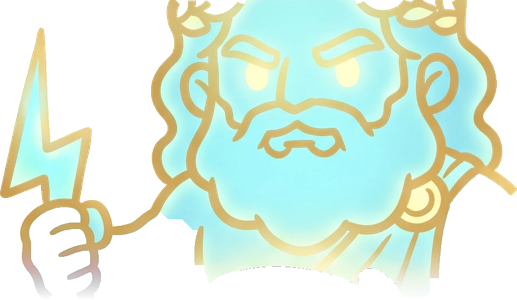
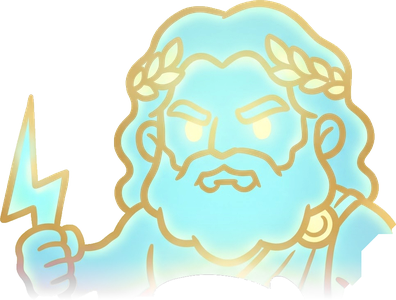
divine: remodel on a 7x3 board, cleaner Zeus spirit, Gemini prompts for the remaining characters
Claude-Session: https://claude.ai/code/session_01TXxUxPecwzvu4yaBN5DPQG

diff --git a/divine.html b/divine.html
@@ -61,14 +61,14 @@ button small { display: block; font-size: .62em; font-weight: 600; }
 </div>
 <script>
 'use strict';
-/* ศึกผู้รับพร (owner 2026-11-25: remodel to the owner's mock-up art/incoming/divine_game/ref/owner_target_mockup.jpg, ONE 6 x 3 board).
+/* ศึกผู้รับพร (owner 2026-11-25: remodel to the owner's mock-up art/incoming/divine_game/ref/owner_target_mockup.jpg; ONE board of 7 x 3 = 21 slots, owner "ทำ 7 ช่อง" so it differs from the reference game).
    Genre: random summon + merge defence (owner's references: genre only, own names / HUD / board). Rules started from the Codex prototype
    on branch codex/divine-dark-compact. Characters = cut from the owner's own pictures (tools/art/divine_cut.py + divine_sprites.py -> art/divine).
    Logical canvas 585 x 1266, drawn at 2x. */
 const $ = id => document.getElementById(id), cv = $('c'), g = cv.getContext('2d'), W = 585, H = 1266, SC = 2;
 cv.width = W * SC; cv.height = H * SC;
 const clamp = (v, a, b) => Math.max(a, Math.min(b, v)), rnd = (a, b) => a + Math.random() * (b - a), pick = a => a[Math.floor(Math.random() * a.length)];
-const COLS = 6, ROWS = 3, CW = 76, CH = 128, BX = Math.round((W - COLS * CW) / 2), BY = 380;
+const COLS = 7, ROWS = 3, CW = 68, CH = 128, BX = Math.round((W - COLS * CW) / 2), BY = 380;
 const cell = i => ({ x: BX + (i % COLS) * CW + CW / 2, y: BY + Math.floor(i / COLS) * CH + CH * .86 });   /* feet point */
 /* monsters walk round the board on the centre line of the dirt ring */
 const PL = 23, PR = W - 23, PT = 339, PB = 805, LOOP = [[PL, PT], [PR, PT], [PR, PB], [PL, PB], [PL, PT]];
@@ -105,14 +105,14 @@ function toast(s) { const e = $('toast'); e.textContent = s; e.classList.add('on
 function unitName(u) { return u.kind === 'sol' ? 'ทหารรับจ้าง' : PAN[u.p].hero[Math.min(3, TIERS.indexOf(u.tier) - 1)]; }
 function makeUnit(tier, p) { if (tier === 'COMMON') return { kind: 'sol', p: null, tier, cd: rnd(0, 30), bob: Math.random() * 6, flash: 0, awake: false }; return { kind: 'hero', p: p || pick(PK), tier, cd: rnd(0, 30), bob: Math.random() * 6, flash: 0, awake: false }; }
 function same(a, b) { return a && b && a.kind === b.kind && a.tier === b.tier && a.p === b.p; }
-function place(u) { const free = []; G.grid.forEach((v, i) => { if (!v) free.push(i); }); if (!free.length) { toast('กระดานเต็ม 18 ช่องแล้ว'); return -1; } const i = free[0]; G.grid[i] = u; const c = cell(i); burst(c.x, c.y - 40, TD[u.tier].col, 18, 4); ring(c.x, c.y - 4, TD[u.tier].col, 10, 44, .4); return i; }
+function place(u) { const free = []; G.grid.forEach((v, i) => { if (!v) free.push(i); }); if (!free.length) { toast('กระดานเต็ม 21 ช่องแล้ว'); return -1; } const i = free[0]; G.grid[i] = u; const c = cell(i); burst(c.x, c.y - 40, TD[u.tier].col, 18, 4); ring(c.x, c.y - 4, TD[u.tier].col, 10, 44, .4); return i; }
 function summon() {
   if (G.over) return; if (G.gold < G.sumCost) return toast('ทองไม่พอ');
   const r = Math.random() + G.atk * .004, t = r > .97 ? 'LEGEND' : r > .84 ? 'EPIC' : r > .55 ? 'RARE' : 'COMMON';
   if (place(makeUnit(t)) < 0) return; G.gold -= G.sumCost; G.sumCost = Math.min(60, G.sumCost + 1); if (t !== 'COMMON' && t !== 'RARE') toast('ได้ระดับ' + TD[t].th + '!'); sync();
 }
 function gamble() {
-  if (G.over) return; if (G.gem < 1) return toast('เพชรไม่พอ'); if (!G.grid.includes(null)) return toast('กระดานเต็ม 18 ช่องแล้ว');
+  if (G.over) return; if (G.gem < 1) return toast('เพชรไม่พอ'); if (!G.grid.includes(null)) return toast('กระดานเต็ม 21 ช่องแล้ว');
   G.gem--; const r = Math.random();
   if (r < .5) { toast('พลาด! ลองใหม่'); sync(); return; }
   const t = r > .97 ? 'MYTHIC' : r > .85 ? 'LEGEND' : 'EPIC'; place(makeUnit(t)); toast('เสี่ยงทายได้ระดับ' + TD[t].th + '!'); sync();
@@ -240,10 +240,10 @@ function hud() {
   txt(G.boss ? 'บอสบุกแล้ว!' : 'บอสใน ' + bw + ' รอบ', cx + 52, cy + 134, 20, '#fff');
 }
 function drawUnit(u, i) {
-  const c = cell(i), D = TD[u.tier], tier = TIERS.indexOf(u.tier), bob = Math.sin(tt * 3 + u.bob) * 1.6, h = (u.kind === 'sol' ? 88 : 100) * D.sz;
-  if (G.sel === i) { g.lineWidth = 5; g.strokeStyle = '#fff06a'; rr(g, c.x - CW / 2 + 3, c.y - CH * .86 + 3, CW - 6, CH - 6, 9); g.stroke(); }
+  const c = cell(i), D = TD[u.tier], tier = TIERS.indexOf(u.tier), bob = Math.sin(tt * 3 + u.bob) * 1.6, h = (u.kind === 'sol' ? 80 : 92) * D.sz;
+  if (G.sel === i) { g.lineWidth = 5; g.strokeStyle = '#fff06a'; rr(g, c.x - CW / 2 + 2, c.y - CH * .86 + 3, CW - 4, CH - 6, 9); g.stroke(); }
   /* tier ring on the floor */
-  g.save(); g.lineWidth = 4; g.strokeStyle = D.col; g.shadowColor = D.col; g.shadowBlur = tier >= 3 ? 14 : 6; g.beginPath(); g.ellipse(c.x, c.y, 30, 9, 0, 0, 6.3); g.stroke(); g.restore();
+  g.save(); g.lineWidth = 4; g.strokeStyle = D.col; g.shadowColor = D.col; g.shadowBlur = tier >= 3 ? 14 : 6; g.beginPath(); g.ellipse(c.x, c.y, 27, 8, 0, 0, 6.3); g.stroke(); g.restore();
   /* the god behind the blessed one: always for a greek mythic, a flash on big hits for greek epic / legend */
   if (u.kind === 'hero' && u.p === 'greek' && (tier >= 4 || u.spirit > 0)) {
     const a = tier >= 4 ? .5 + .1 * Math.sin(tt * 2.2) + (u.spirit > 0 ? .25 : 0) : u.spirit / 26 * .7, sh = tier >= 4 ? 150 : 110, sy = c.y - h * .55 + Math.sin(tt * 1.7) * 3;
@@ -289,7 +289,7 @@ function chips() {
   pill(40, 120, (x, y) => { g.fillStyle = '#ffd23f'; rr(g, x - 12, y - 10, 24, 20, 5); g.fill(); g.lineWidth = 3; g.stroke(); g.fillStyle = '#fff3a0'; g.fillRect(x - 6, y - 6, 8, 4); }, G.gold);
   pill(172, 96, (x, y) => { g.fillStyle = '#5fd2ff'; g.beginPath(); g.moveTo(x, y - 13); g.lineTo(x + 11, y - 2); g.lineTo(x, y + 13); g.lineTo(x - 11, y - 2); g.closePath(); g.fill(); g.lineWidth = 3; g.stroke(); }, G.gem);
   pill(280, 96, (x, y) => { g.fillStyle = '#ff7ad1'; g.beginPath(); g.arc(x, y, 10, 0, 6.3); g.fill(); g.lineWidth = 3; g.stroke(); }, G.core);
-  pill(388, 120, (x, y) => { g.fillStyle = '#e8d6c0'; g.beginPath(); g.arc(x, y - 4, 7, 0, 6.3); g.fill(); g.lineWidth = 3; g.stroke(); g.beginPath(); g.ellipse(x, y + 9, 11, 6, 0, Math.PI, 0); g.fill(); g.stroke(); }, G.grid.filter(Boolean).length + '/18');
+  pill(388, 120, (x, y) => { g.fillStyle = '#e8d6c0'; g.beginPath(); g.arc(x, y - 4, 7, 0, 6.3); g.fill(); g.lineWidth = 3; g.stroke(); g.beginPath(); g.ellipse(x, y + 9, 11, 6, 0, Math.PI, 0); g.fill(); g.stroke(); }, G.grid.filter(Boolean).length + '/21');
 }
 function draw() {
   g.setTransform(SC, 0, 0, SC, 0, 0); g.clearRect(0, 0, W, H);

diff --git a/tools/art/divine_cut.py b/tools/art/divine_cut.py
@@ -11,7 +11,7 @@ BOX = {   # name: (source, x0, y0, x1, y1) in the source's own pixels
     'robot_a': (MOCK, 492, 470, 650, 665), 'robot_b': (MOCK, 708, 512, 858, 705), 'ghoul_a': (MOCK, 892, 488, 1116, 712), 'ghoul_b': (MOCK, 1140, 488, 1366, 722),
     'robot_c': (MOCK, 934, 1958, 1075, 2100),
     'soldier': (MOCK, 1076, 1080, 1232, 1262), 'thor': (MOCK, 676, 1392, 840, 1582), 'monkey': (MOCK, 858, 1558, 1034, 1758), 'anubis': (MOCK, 676, 1692, 840, 1915),
-    'zeus_boy': (TONE, 420, 760, 1400, 1960), 'zeus_spirit': (TONE, 470, 330, 1460, 880),
+    'zeus_boy': (TONE, 420, 760, 1400, 1960), 'zeus_spirit': (TONE, 470, 150, 1460, 880),
 }
 def cut(name, src, x0, y0, x1, y1):
     im = cv2.imread(os.path.join(REF, src)); H, W = im.shape[:2]; pad = 14
@@ -29,7 +29,7 @@ def cut(name, src, x0, y0, x1, y1):
     rgba = cv2.cvtColor(sub, cv2.COLOR_BGR2RGBA); rgba[..., 3] = m * 255
     if name == 'zeus_spirit':   # drawn on white: soft alpha from the distance to white, colour un-blended from white
         c = sub[..., ::-1].astype(float); dist = np.abs(c - 255).max(2); al = np.clip(dist / (110 if name == 'zeus_spirit' else 70), 0, 1)
-        if name == 'zeus_spirit': al = np.maximum(al, .38 * (m > 0)); al *= np.clip((sub.shape[0] - np.arange(sub.shape[0])[:, None] - pad) / (sub.shape[0] * .3), 0, 1)   # fades out at the bottom
+        if name == 'zeus_spirit': al = al * 1.0; al *= np.clip((sub.shape[0] - np.arange(sub.shape[0])[:, None] - pad) / (sub.shape[0] * .3), 0, 1)   # fades out at the bottom
         al = al * (m > 0); q = np.maximum(al, 1e-3)[..., None]; col = np.clip((c - (1 - q) * 255) / q, 0, 255)
         rgba = np.dstack([col, al * 255]).astype(np.uint8)
     a = Image.fromarray(rgba); a = a.crop(a.getbbox()); a.save(os.path.join(OUT, name + '.png')); return a

diff --git a/art/incoming/divine_game/PROMPTS_gemini.md b/art/incoming/divine_game/PROMPTS_gemini.md
@@ -1,0 +1,61 @@
+# ศึกผู้รับพร: คำสั่งสร้างตัวละครให้ Gemini (ฟรี)
+
+วิธีใช้: เปิด Gemini แนบรูปตามที่บอกในแต่ละข้อ แล้ววางคำสั่งภาษาอังกฤษทั้งก้อน 1 รูปต่อ 1 ตัว ได้รูปแล้วส่งมาเป็นไฟล์แนบ (ไม่ต้องวางในแชท) ผมจะตัดพื้นขาว ปรับขนาดให้เท่ากัน แล้วใส่เกมให้
+
+รูปที่ต้องแนบ (อยู่ในโฟลเดอร์ `art/incoming/divine_game/ref/`):
+- `REF_size_champion.png` = เด็กซุส ใช้เป็นแบบ "ลายเส้น + ขนาดตัว" ทุกตัวต้องสูงเท่าเด็กคนนี้
+- `REF_god_spirit.png` = วิญญาณซุส ใช้เป็นแบบ "เทพเรืองแสงด้านหลัง"
+
+---
+
+## ก้อนกลาง (ใส่ต่อท้ายทุกคำสั่งของผู้รับพร)
+
+```
+STYLE + SIZE RULES: copy the attached reference picture exactly: same cute chibi cartoon style for a mobile game, about 2 heads tall, same thick dark-brown outline, flat bright colours with soft cel shading, rosy cheeks, confident cheeky face. SAME SIZE AS THE REFERENCE BOY: the same head size and the same body height, standing in the same spot of a 1024 x 1024 square, feet at the same height near the bottom; only helmets, ears, hair spikes and weapons may stick out above his head. ONE character only, full body from head to feet, standing idle battle pose, body turned slightly to the viewer (3/4 front view like the reference), holding the weapon in the hand. Pure white background, no ground, no shadow, no glow behind the body, no text, no frame, no god behind him.
+```
+
+## 1. ผู้รับพรธอร์ (นอร์ส) ทำใหม่ — แนบ `REF_size_champion.png`
+```
+A brave chibi Viking kid blessed by the thunder god: small winged silver helmet over messy blond hair, short red cape, brown fur collar, blue tunic with a silver belt, leather boots, holding a small glowing thunder hammer with tiny blue sparks around its head.
+```
+(ต่อด้วยก้อนกลาง)
+
+## 2. ผู้รับพรเห้งเจีย (เอเชีย) ทำใหม่ — แนบ `REF_size_champion.png`
+```
+A cheeky chibi kid blessed by the Monkey King: a golden circlet on his forehead, spiky orange-brown hair, small monkey ears and a curly monkey tail, red and gold wushu outfit with a yellow sash, cloth shoes, holding a long red staff with golden ends, a tiny flame at one end.
+```
+(ต่อด้วยก้อนกลาง)
+
+## 3. ผู้รับพรอานูบิส (อียิปต์) — แนบ `REF_size_champion.png`
+```
+A calm chibi Egyptian kid blessed by the jackal god: a blue-and-gold striped nemes headdress with two tall black jackal ears on top, kohl-lined eyes, white linen kilt with a gold belt, broad gold collar, gold arm bands and sandals, holding a golden spear with a small blue gem.
+```
+(ต่อด้วยก้อนกลาง)
+
+## 4. ทหารธรรมดา (ระดับต่ำสุด แทนทหารปืน) — แนบ `REF_size_champion.png`
+```
+A simple chibi temple recruit kid: plain bronze round helmet, beige tunic, small round wooden shield on one arm and a short wooden spear in the other hand, sandals; plainer and less shiny than a hero.
+```
+(ต่อด้วยก้อนกลาง)
+
+---
+
+## วิญญาณเทพด้านหลัง (1 รูปต่อเทพ) — แนบ `REF_god_spirit.png`
+
+ก้อนกลางของวิญญาณ:
+```
+STYLE RULES: copy the attached god spirit exactly: a big translucent glowing ghost of the god from the chest up, pale cyan body fill with thin gold outlines and a soft yellow glow, eyes glowing, one hand holding the god's weapon, same size and same position in the square as the reference, pure white background, no child in front, no text, no frame.
+```
+
+### 5. วิญญาณธอร์
+```
+The Norse thunder god: huge braided red beard, winged helmet, fur cloak, holding a big thunder hammer with lightning.
+```
+### 6. วิญญาณเห้งเจีย
+```
+The Monkey King: fierce monkey face, golden circlet, flowing cape, holding a long staff, a little cloud swirl around him.
+```
+### 7. วิญญาณอานูบิส
+```
+The jackal-headed Egyptian god of the dead: tall jackal head with long ears, broad gold collar, holding a long staff with a crook top.
+```

diff --git a/docs/action-game.md b/docs/action-game.md
@@ -2634,4 +2634,29 @@ Owner sent a small picture labelled "PROJECTILE SHAPE": "p เปลี่ยน
   - Effects and buttons: big DAMAGE / CRIT numbers; stat icons with percentages; gold / gems / unit count 23 / 26; speed x2; buttons Mythic, Summon 250, Roulette (วัดดวง), ท้าดวลบอส, สกิล Chronos, Upgrade.
   - Cartoon style: thick outlines, warm brown ground, dark night edges.
   - Careful: the layout is very close to the reference game. When building, keep the genre and this art tone, but use our own names (Thai), our own HUD shapes and a board or theme of our own so it is not a copy.
+- REMODEL BUILT (2026-11-25, owner "ทำไมไม่รีโมเดล", "แถว 6x3", then "ทำ 7 ช่องไปงั้น" so it differs from the reference game): our own `divine.html` "ศึกผู้รับพร" replaces the Codex file. Codex's branch stays unmerged.
+  - Board and path: ONE board of 7 x 3 = 21 slots. Monsters walk round a dirt ring from a portal at the top left; you lose at 100.
+  - Tiers: common = soldier; rare to mythic = pantheon heroes (Greek / Norse / Egypt / Asia). The tier shows as a coloured floor ring plus 1-5 stars.
+  - Moves: a mythic Greek has the Zeus spirit behind; Greek epic and above flash the spirit when they hit.
+  - Attacks:
+    - Greek: chain lightning.
+    - Norse: a sky bolt plus an area ring.
+    - Egypt: a piercing gold beam.
+    - Asia: a fireball that bursts.
+    - Soldier: tracer bullets.
+  - Buttons (our own Thai): อัญเชิญ / หลอมเทพ (2 epic+ -> mythic) / เสี่ยงทาย (1 gem, 50 % miss) / ท้าบอส / หยุดกาล (5 s, 30 s cooldown) / เสริมพลัง, speed x1 / x2.
+  - Tap a unit to get รวม 3 / ปลุกพลัง (mythic + core) / ขาย; tap another slot to move or swap.
+  - Synergy chips: 2+ of a pantheon gives a bonus.
+  - Balance: monster HP = 55 x 1.16^(wave-1) + 20 x wave; boss = 28 x that + 1200, every 10th wave. A summon-and-merge bot reaches wave 53 (about 18 min) and loses.
+  - Art:
+    - Cut free from the owner's own pictures by `tools/art/divine_cut.py` (GrabCut; the Zeus boy cut along his dark outline; the spirit's alpha comes from its distance to white).
+    - `tools/art/divine_sprites.py` scales them into `art/divine/` at 2x.
+  - Canvas: 585 x 1266 drawn at 2x; the arena is painted in code.
+  - Checked at 390 x 844 with no console errors.
+- NEXT ART (owner: "ทอร์ ลิง ไม่สวย เจนใหม่", "ดูขนาดตัวด้วย", the owner will use Gemini):
+  - Prompts: `art/incoming/divine_game/PROMPTS_gemini.md`.
+  - Champions: Thor kid and monkey kid made new, an Anubis kid, a plain common recruit.
+  - God spirits for Thor, Monkey King and Anubis.
+  - References: `ref/REF_size_champion.png` (the Zeus boy at the standard size on a 1024 square) and `ref/REF_god_spirit.png`.
+  - When they come: cut them, scale by HEAD size (not full height, because of ears and helmets), then wire each spirit like the Greek one.
 

diff --git a/CLAUDE.md b/CLAUDE.md
@@ -39,8 +39,8 @@ Long chats cost a lot: when the subject changes, suggest a new chat; every decis
 - Per champion: GPT big-pixel 3-view sheet (free) → PixelLab redraw B at body 128 (1 credit; say the cost, the owner's "เทส" / "เจน" is the go-ahead) → for the bag game only the SIDE view is used, so clips are ordered east only: character 4 + idle 1 + attack combo 4 + hurt 1 + death 1 ≈ 12 credits, only on "เจน".
 - `bag.html` = the game being worked on ("ศึกแชมเปี้ยนเผ่า"): full-screen battle, bags along the bottom, generated item icons + arena, PVFX Foundry effects in `art/pvfx/` (CC0) not wired in yet.
 
-## NEWEST (owner 2026-11-25): `divine.html` "Lucky Pantheon — ศึกผู้รับพร" (Codex-made, branch `codex/divine-dark-compact`, NOT on main)
-- Portrait mobile summon-and-merge defence on an 18-slot board with 4 pantheons. The owner wants the characters in the tone of `art/incoming/divine_game/ref/owner_tone_zeus_boy.jpg` (cute chibi champion + glowing god spirit behind). Notes: the DIVINE section at the end of `docs/action-game.md`; start there on "เกมผู้รับพร" / "Lucky Pantheon".
+## NEWEST (owner 2026-11-25): `divine.html` "ศึกผู้รับพร" (our remodel on main; the first Codex version stays on branch `codex/divine-dark-compact`)
+- Portrait mobile summon-and-merge defence on ONE 7 x 3 board (21 slots) with 4 pantheons; characters cut from the owner's pictures; Gemini prompts for the rest in `art/incoming/divine_game/PROMPTS_gemini.md`. The owner wants the characters in the tone of `art/incoming/divine_game/ref/owner_tone_zeus_boy.jpg` (cute chibi champion + glowing god spirit behind). Notes: the DIVINE section at the end of `docs/action-game.md`; start there on "เกมผู้รับพร" / "Lucky Pantheon".
 
 ## NEWEST (owner 2026-11-24): turn-based pixel game with bones (NOT built yet)
 - Pretty turn-based battle, pixel characters 128 px moved by our own 2D bones (`dragonrig.html` recipe). The first hero comes from the owner's picture via PixelLab PRO: the owner chose pro straight away for this game. Plan and picks: the TURN-BASED section at the end of `docs/action-game.md`; start there on "เกมเทิร์นเบส".
